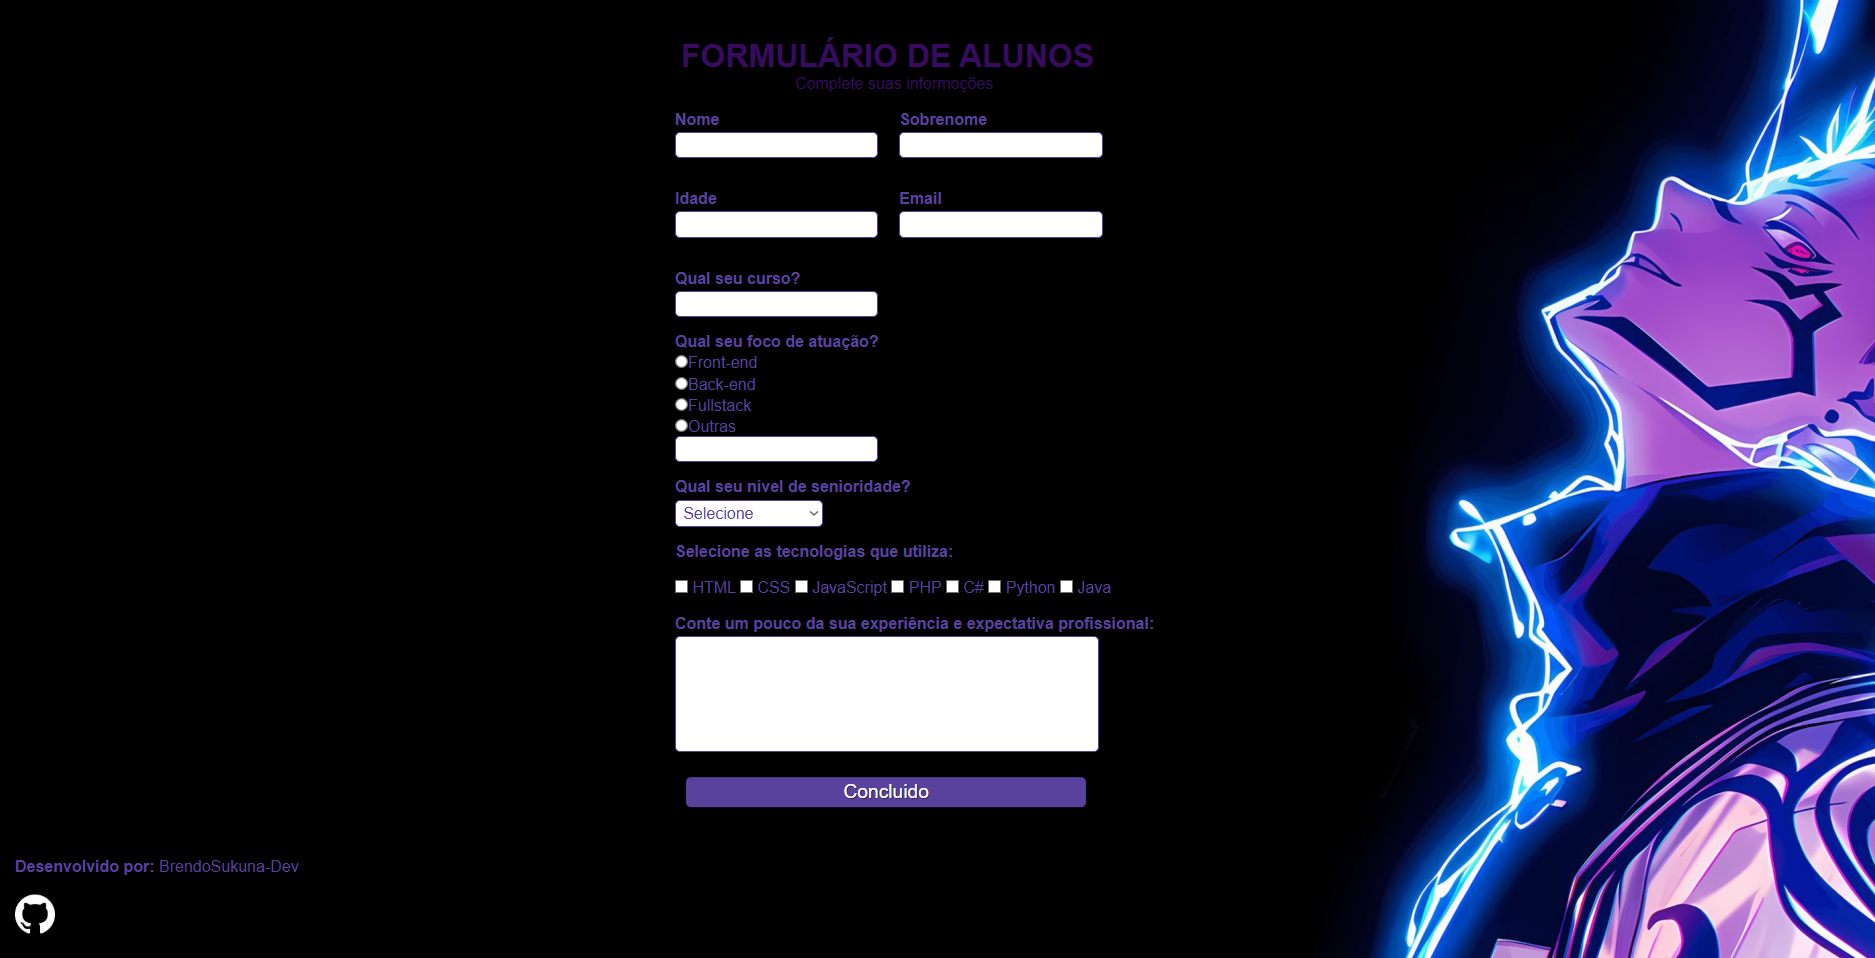
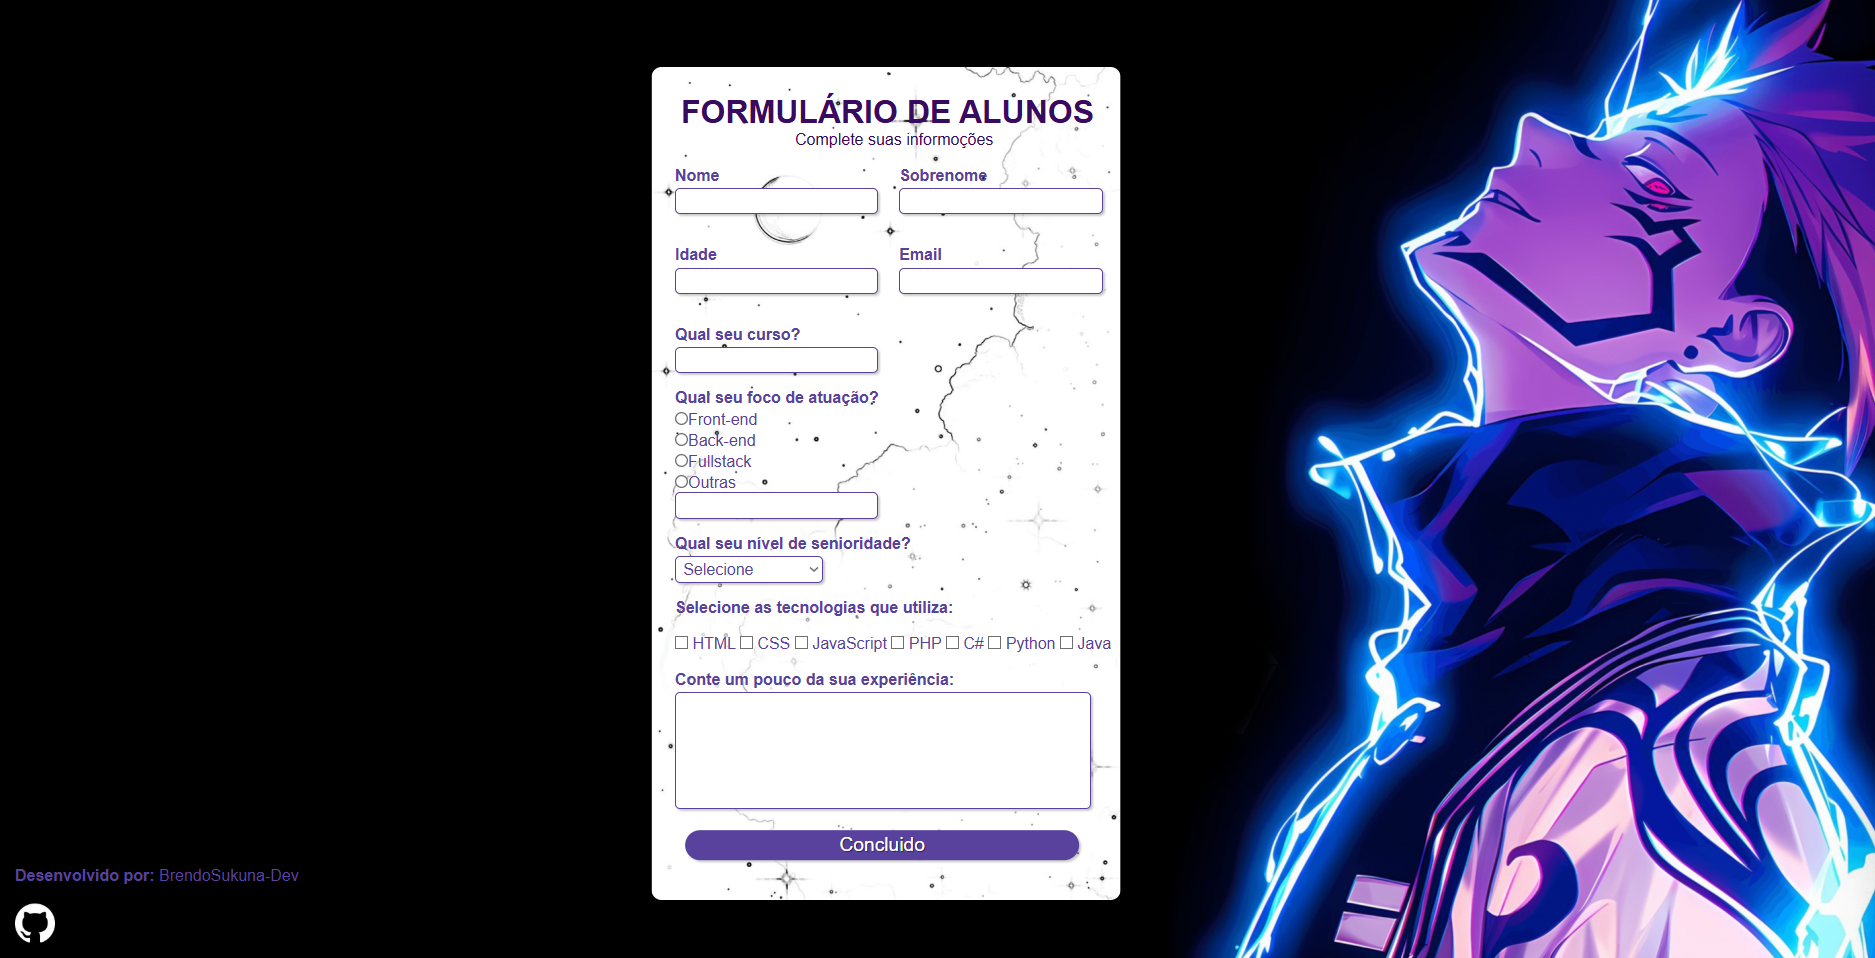
finalizado

diff --git a/styles.css b/styles.css
@@ -1,7 +1,90 @@
-* {
+* {
     margin: 0;
     padding: 0;
-    
+    box-sizing: border-box;
+}
+
+.main {
+    position: relative;
+    width: 100%;
+    text-align: center;
+}
+
+/* Responsividade para diferentes dispositivos */
+@media (max-width: 1024px) {
+    .painel {
+        left: 10%;
+        width: 60%;
+        transform: translateX(0);
+    }
+    body {
+        margin-left: 10%;
+        margin-right: 10%;
+    }
+    .botao {
+        left: 50%;
+        width: 40%;
+    }
+}
+
+@media (max-width: 768px) {
+    .painel {
+        position: static;
+        width: 90%;
+        margin: 0 auto;
+        left: 0;
+        top: 0;
+        transform: none;
+    }
+    body {
+        margin-left: 0;
+        margin-right: 0;
+        margin-top: 2%;
+    }
+    .botao {
+        left: 50%;
+        width: 80%;
+        top: auto;
+        position: static;
+        transform: none;
+        margin: 1em auto;
+        display: block;
+    }
+    .desenvolvido, .github {
+        margin-left: 0;
+        margin-top: 1em;
+        text-align: center;
+    }
+}
+
+@media (max-width: 480px) {
+    .painel {
+        width: 98%;
+        padding: 0.5em;
+    }
+    #titulo, #subtitulo {
+        margin-left: 0;
+        font-size: 1.1em;
+    }
+    .linha {
+        flex-direction: column;
+        gap: 0.5em;
+    }
+    .botao {
+        width: 100%;
+        font-size: 1em;
+    }
+}
+
+.painel {
+    position: absolute;
+    top: 7%;
+    left: 20%;
+    transform: translateX(59%);
+    z-index: -1;
+    width: 25%;
+    border-radius: 10px;
+    opacity: 1;
 }
 
 #titulo {
@@ -24,15 +107,19 @@ fieldset {
     border: 0;
 }
 
+
 body {
-    /*background-color: #f0f8ff;*/
     background-image: url(https://4kwallpapers.com/images/wallpapers/sukuna-black-3440x1440-16937.png);
+    background-position: 1;
+    background-position-x: 9%;
+    background-position-y: 13%;
     font-family: sans-serif;
     font-size: 1em;
     color: #59429d;
     margin-left: 36%;
-    margin-top: 2%;
+    margin-top: 5%;
     justify-content: center;
+    z-index: 1;
 }
 
 input, select, textarea, button {
@@ -107,11 +194,12 @@ textarea  {
     text-shadow: 1px 1px 1px rgba(0,0,0,0.5);
     position: absolute;
     top: 90%;
-    left: 47.26%;
+    left: 47.05%;
     margin-right: -50%;
     transform: translate(-50%, -50%);
-    width: 400px;
-    margin-top: -70px;
+    width: 21%;
+    margin-top: -0.9%;
+    border-radius: 999px;
 }
 
 .botao:hover {
@@ -126,5 +214,5 @@ textarea  {
 
 .desenvolvido, .github {
     margin-left: -55%;
-    margin-top: 3%;
+    margin-top: -1%;
 }

diff --git a/index.html b/index.html
@@ -1,4 +1,4 @@
-<!DOCTYPE html>
+<!DOCTYPE html>
 <html lang="pt-br">
 <head>
     <meta charset="UTF-8">
@@ -7,6 +7,9 @@
     <title>FORMULÁRIO FACULDADE</title>
 </head>
 <body>
+
+<main class="container">
+    <img class="painel" src="/assets/painel.jpg " alt="painel-luz">
 
     <div>
         <h1 id="titulo">FORMULÁRIO DE ALUNOS</h1>
@@ -96,11 +99,12 @@
 
             <div class="campo">
                 <br>
-                <label for="experiencia"><strong>Conte um pouco da sua experiência e expectativa profissional:</strong></label>
+                <label for="experiencia"><strong>Conte um pouco da sua experiência:</strong></label>
                 <textarea rows="6" style="width: 26em" id="experiencia" name="experiencia" required></textarea>
             </div>
 
             <button class="botao" type="submit" onsubmit="">Concluido</button>
+</main>
             <br>
             <br>
             <br>
